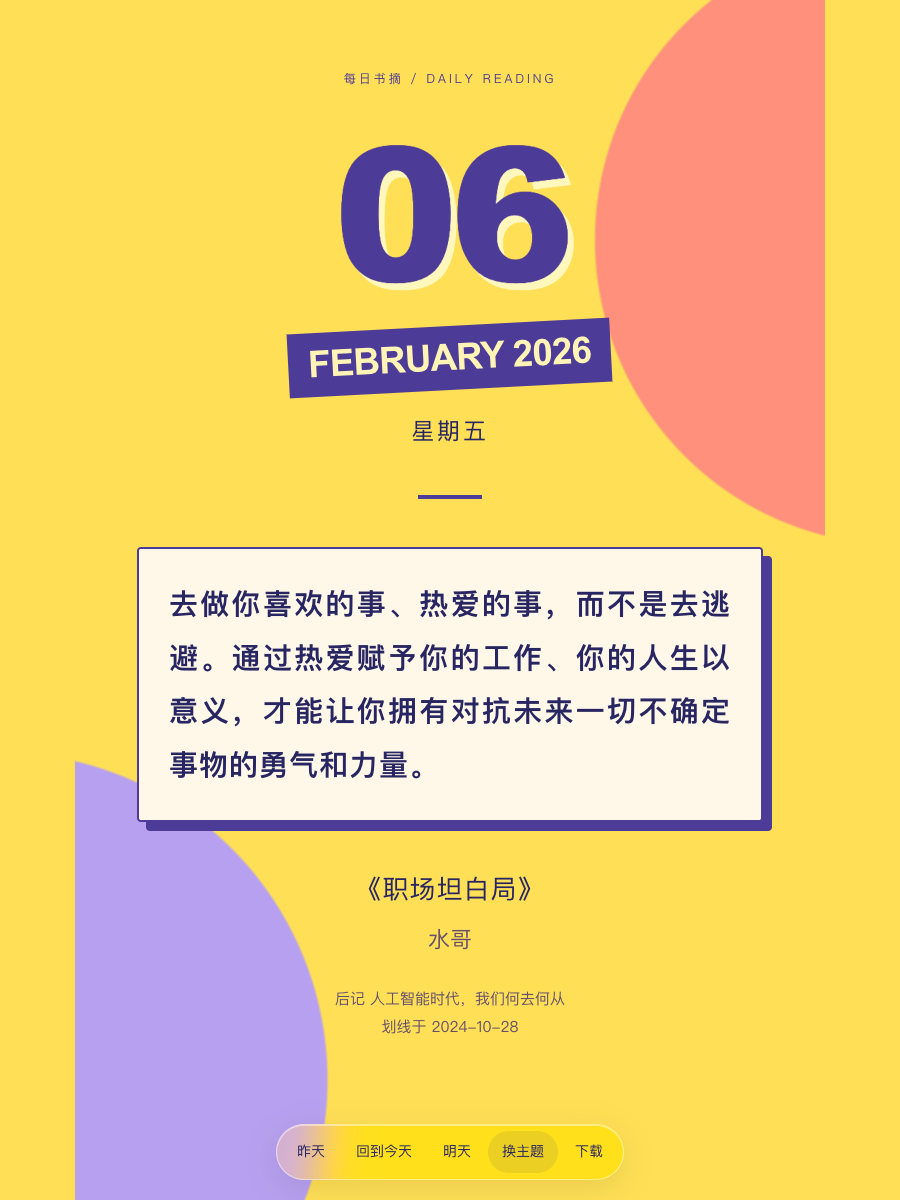
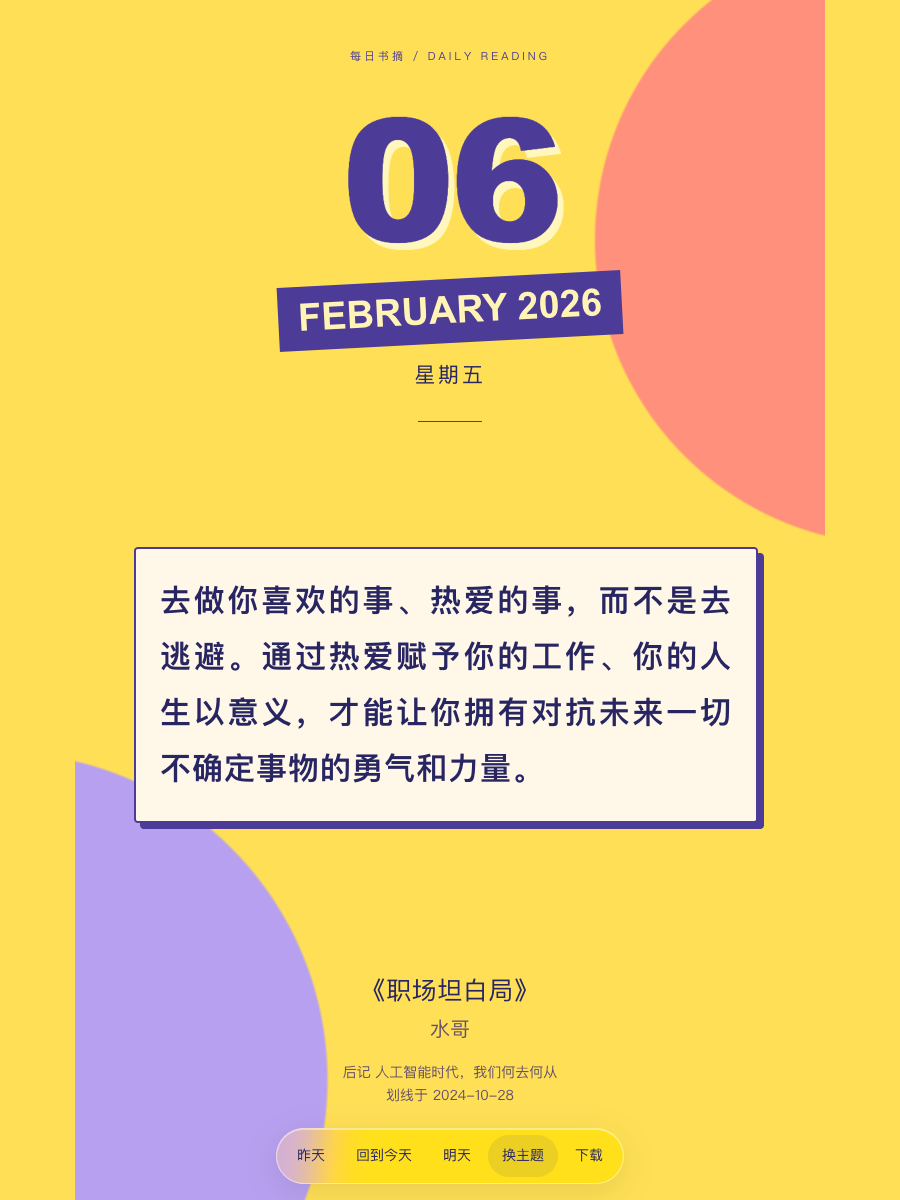
Keep calendar background screen-sized and center shorter excerpts

diff --git a/docs/daily.js b/docs/daily.js
@@ -9,13 +9,14 @@
  const back=nav.querySelector('.calendar-today');
  const status=document.createElement('div');status.setAttribute('role','status');status.style.cssText='position:fixed;bottom:calc(96px + env(safe-area-inset-bottom,0px));left:50%;transform:translateX(-50%);z-index:21;font-size:13px;padding:9px 16px;border-radius:20px;background:var(--paper);color:var(--ink);box-shadow:0 4px 18px #0001;display:none;white-space:nowrap';document.body.append(status);let statusTimer;
  function announce(text){clearTimeout(statusTimer);status.textContent=text;status.style.display='block';statusTimer=setTimeout(()=>{status.style.display='none'},3500)}
- const download=nav.querySelector('.download-card');download.onclick=async()=>{if(download.disabled)return;const savedDate=selected,savedTheme=activeTheme;nav.querySelectorAll('button').forEach(b=>b.disabled=true);download.textContent='生成中';download.setAttribute('aria-busy','true');try{await document.fonts.ready;if(!window.htmlToImage)throw Error('export unavailable');const blob=await window.htmlToImage.toBlob(card,{pixelRatio:2,skipFonts:true,backgroundColor:getComputedStyle(document.documentElement).getPropertyValue('--paper').trim()});if(!blob)throw Error('empty image');const url=URL.createObjectURL(blob);const link=document.createElement('a');link.href=url;link.download='每日书摘-'+savedDate+'-'+savedTheme+'.png';document.body.append(link);link.click();link.remove();setTimeout(()=>URL.revokeObjectURL(url),60000);announce('已开始下载图片')}catch{announce('图片生成失败，请重试')}finally{nav.querySelectorAll('button').forEach(b=>b.disabled=false);download.textContent='下载';download.removeAttribute('aria-busy');render()}};
+ const download=nav.querySelector('.download-card');download.onclick=async()=>{if(download.disabled)return;const savedDate=selected,savedTheme=activeTheme;nav.querySelectorAll('button').forEach(b=>b.disabled=true);download.textContent='生成中';download.setAttribute('aria-busy','true');try{await document.fonts.ready;if(!window.htmlToImage)throw Error('export unavailable');const exportCard=card.cloneNode(true);exportCard.classList.add('export-card');exportCard.style.width=card.offsetWidth+'px';document.body.append(exportCard);let blob;try{blob=await window.htmlToImage.toBlob(exportCard,{style:{position:'static',inset:'auto',insetInline:'auto',insetBlock:'auto',margin:'0'},pixelRatio:2,skipFonts:true,backgroundColor:getComputedStyle(document.documentElement).getPropertyValue('--paper').trim()})}finally{exportCard.remove()}if(!blob)throw Error('empty image');const url=URL.createObjectURL(blob);const link=document.createElement('a');link.href=url;link.download='每日书摘-'+savedDate+'-'+savedTheme+'.png';document.body.append(link);link.click();link.remove();setTimeout(()=>URL.revokeObjectURL(url),60000);announce('已开始下载图片')}catch{announce('图片生成失败，请重试')}finally{nav.querySelectorAll('button').forEach(b=>b.disabled=false);download.textContent='下载';download.removeAttribute('aria-busy');render()}};
 
  let calendar,pool;try{const responses=await Promise.all([fetch(assetURL('calendar-'+year+'.json')),fetch(assetURL('highlights.json'))]);if(responses.some(r=>!r.ok))throw Error('calendar');[calendar,pool]=await Promise.all(responses.map(r=>r.json()))}catch{document.querySelector('.quote').textContent='今年的书摘日历尚未初始化，请稍后再试。';return}
  const byId=new Map(pool.map(h=>[h.book_id+':'+h.id,h]));
- function put(sel,t){const el=card.querySelector(sel);if(el)el.textContent=t}
- function resize(){try{parent.postMessage({type:'reading-card-resize',date:selected,height:document.documentElement.scrollHeight},appOrigin)}catch{}}
+ function put(sel,t){const el=card.querySelector(sel);if(!el)return;if(sel==='.quote'){const text=document.createElement('span');text.className='quote-text';text.textContent=t;el.replaceChildren(text);el.scrollTop=0;}else el.textContent=t}
+ function fitQuote(target=card){const area=target.querySelector('.quote'),text=area.querySelector('.quote-text');if(!text)return;let size=target.clientWidth>600?31:23;for(;size>16;size--){text.style.setProperty('--quote-font',size+'px');if(text.offsetHeight<=area.clientHeight-20)break}text.style.setProperty('--quote-font',size+'px');area.tabIndex=area.scrollHeight>area.clientHeight+1?0:-1;}
+ function resize(){fitQuote();try{parent.postMessage({type:'reading-card-resize',date:selected,height:document.documentElement.scrollHeight},appOrigin)}catch{}}
  function render(){nav.querySelector('.prev').disabled=selected===min;nav.querySelector('.next').disabled=selected===max;back.disabled=selected===today||today<min||today>max;const date=new Date(selected+'T12:00:00Z');put('.day',selected.slice(8));put('.month',new Intl.DateTimeFormat('en-US',{timeZone:'UTC',month:'long'}).format(date).toUpperCase()+' '+year);put('.weekday',new Intl.DateTimeFormat('zh-CN',{timeZone:'UTC',weekday:'long'}).format(date));const h=byId.get(calendar.entries[selected]?.highlight_id);put('.quote',h?h.text:'这一天暂无符合时间条件的书摘。');put('.book a',h?'《'+h.book+'》':'');put('.author',h?h.author:'');const link=card.querySelector('.book a');if(link){link.removeAttribute('href');if(h?.reader_link){try{const u=new URL(h.reader_link);if(u.protocol==='https:'&&u.hostname==='weread.qq.com')link.href=u.href}catch{}}}const detail=card.querySelector('.details');detail.replaceChildren();if(h){const p=document.createElement('p');p.textContent=h.chapter;const q=document.createElement('p');q.textContent='划线于 '+(h.highlighted_date||h.highlighted_at.slice(0,10));detail.append(p,q)}document.title=selected+' · 每日书摘';document.documentElement.dataset.highlightId=h?.id||'';document.documentElement.dataset.date=selected;const url=new URL(location.href);url.searchParams.set('date',selected);url.searchParams.set('theme',activeTheme);if(!location.href.startsWith('about:'))history.replaceState(null,'',url);resize()}
  function move(amount){const d=new Date(selected+'T00:00Z');d.setUTCDate(d.getUTCDate()+amount);const next=d.toISOString().slice(0,10);if(next>=min&&next<=max){selected=next;render()}}
- nav.querySelector('.prev').onclick=()=>move(-1);nav.querySelector('.next').onclick=()=>move(1);back.onclick=()=>{if(today>=min&&today<=max){selected=today;render()}};window.addEventListener('message',e=>{if(e.source!==parent||e.data?.type!=='set-calendar-date')return;const d=e.data.date;if(/^\d{4}-\d{2}-\d{2}$/.test(d)&&d>=min&&d<=max){selected=d;render()}});render();document.fonts.ready.then(resize);
+ nav.querySelector('.prev').onclick=()=>move(-1);nav.querySelector('.next').onclick=()=>move(1);back.onclick=()=>{if(today>=min&&today<=max){selected=today;render()}};window.addEventListener('message',e=>{if(e.source!==parent||e.data?.type!=='set-calendar-date')return;const d=e.data.date;if(/^\d{4}-\d{2}-\d{2}$/.test(d)&&d>=min&&d<=max){selected=d;render()}});window.addEventListener('resize',resize);render();document.fonts.ready.then(resize);
 })();

diff --git a/docs/index.html b/docs/index.html
@@ -1,1 +1,1 @@
-<!doctype html><html lang="zh-CN"><head><meta charset="utf-8"><meta name="viewport" content="width=device-width,initial-scale=1"><title>每日书摘</title><style id="theme-style">:root{--paper:#eef2e8;--ink:#344c3c;--muted:#788b72}*{box-sizing:border-box}html,body{margin:0}body{padding:28px 20px;background:#e8e8e4;font-family:"PingFang SC","Microsoft YaHei",sans-serif;-webkit-font-smoothing:antialiased}.card{position:relative;overflow:hidden;max-width:750px;width:100%;margin:auto;padding:55px 62px 55px;text-align:center;background:var(--paper);color:var(--ink)}.label{margin:0 0 28px;font-size:12px;letter-spacing:3px;color:var(--muted)}.day{margin:0;font-family:"Arial Black",Arial,sans-serif;font-size:186px;font-weight:900;letter-spacing:-8px;line-height:1}.month{margin:25px 0 0;font-family:Arial,sans-serif;font-size:43px;font-weight:800;line-height:1.3;letter-spacing:-1px}.weekday{margin:25px 0 0;font-size:23px;letter-spacing:3px}.rule{width:90px;height:1px;border:0;background:var(--muted);margin:48px auto}.quote{margin:0;text-align:justify;font-size:31px;font-weight:600;line-height:1.95;letter-spacing:1.5px;overflow-wrap:anywhere}.source{margin-top:44px}.book{margin:0;font-size:26px;font-weight:400;line-height:1.7;letter-spacing:1px}.book a{color:inherit;text-decoration:none}.book a:hover{text-decoration:underline;text-underline-offset:5px}.author{margin:12px 0 0;color:var(--muted);font-size:22px;line-height:1.5}.details{margin-top:29px;color:var(--muted);font-size:15px;line-height:1.9}.details p{margin:0}footer{margin-top:40px;font-size:16px;letter-spacing:2px;color:var(--muted)}@media(max-width:600px){body{padding:0}.card{padding:42px 28px}.day{font-size:145px}.month{font-size:30px!important;letter-spacing:0!important}.weekday{font-size:18px}.rule{margin:35px auto}.quote{font-size:23px!important;line-height:1.95!important;letter-spacing:1px!important}.book{font-size:22px}.author{font-size:19px}.details{font-size:13px}.label{margin-bottom:25px}}.card{background:radial-gradient(ellipse at 100% 0,#d8e3cd 0,transparent 46%),#eef2e8}.day{color:#66815b}.quote{font-family:"Songti SC","STSong",serif;font-weight:500}.rule{background:#879c7b}.source{border-top:1px solid #bac8ae;padding-top:30px}.label{color:#66815b}</style><meta name="description" content="精选 100 条真实阅读划线，五种主题，每天重遇一句读过的话。"></head><body><main class="card"><p class="label">每日书摘 / DAILY READING</p><header><p class="day">—</p><p class="month">DAILY READING</p><p class="weekday"></p></header><hr class="rule"><blockquote class="quote">正在载入你的书摘…</blockquote><section class="source"><h1 class="book"><a target="_blank" rel="noopener noreferrer">个人书摘</a></h1><p class="author"></p><div class="details"></div></section></main><p class="public-note" style="max-width:750px;margin:0 auto;padding:12px 20px;text-align:center;font-size:12px;line-height:1.8;color:var(--muted)">公开体验 · 精选 100 条真实书摘，全年轮换重读 · 五种主题可切换</p><script src="./vendor/html-to-image-1.11.13.js"></script><script src="./themes.js"></script><script src="./daily.js"></script></body></html>
+<!doctype html><html lang="zh-CN"><head><meta charset="utf-8"><meta name="viewport" content="width=device-width,initial-scale=1"><title>每日书摘</title><style id="theme-style">:root{--paper:#eef2e8;--ink:#344c3c;--muted:#788b72}*{box-sizing:border-box}html,body{margin:0}body{padding:28px 20px;background:#e8e8e4;font-family:"PingFang SC","Microsoft YaHei",sans-serif;-webkit-font-smoothing:antialiased}.card{position:relative;overflow:hidden;max-width:750px;width:100%;margin:auto;padding:55px 62px 55px;text-align:center;background:var(--paper);color:var(--ink)}.label{margin:0 0 28px;font-size:12px;letter-spacing:3px;color:var(--muted)}.day{margin:0;font-family:"Arial Black",Arial,sans-serif;font-size:186px;font-weight:900;letter-spacing:-8px;line-height:1}.month{margin:25px 0 0;font-family:Arial,sans-serif;font-size:43px;font-weight:800;line-height:1.3;letter-spacing:-1px}.weekday{margin:25px 0 0;font-size:23px;letter-spacing:3px}.rule{width:90px;height:1px;border:0;background:var(--muted);margin:48px auto}.quote{margin:0;text-align:justify;font-size:31px;font-weight:600;line-height:1.95;letter-spacing:1.5px;overflow-wrap:anywhere}.source{margin-top:44px}.book{margin:0;font-size:26px;font-weight:400;line-height:1.7;letter-spacing:1px}.book a{color:inherit;text-decoration:none}.book a:hover{text-decoration:underline;text-underline-offset:5px}.author{margin:12px 0 0;color:var(--muted);font-size:22px;line-height:1.5}.details{margin-top:29px;color:var(--muted);font-size:15px;line-height:1.9}.details p{margin:0}footer{margin-top:40px;font-size:16px;letter-spacing:2px;color:var(--muted)}@media(max-width:600px){body{padding:0}.card{padding:42px 28px}.day{font-size:145px}.month{font-size:30px!important;letter-spacing:0!important}.weekday{font-size:18px}.rule{margin:35px auto}.quote{font-size:23px!important;line-height:1.95!important;letter-spacing:1px!important}.book{font-size:22px}.author{font-size:19px}.details{font-size:13px}.label{margin-bottom:25px}}.card{background:radial-gradient(ellipse at 100% 0,#d8e3cd 0,transparent 46%),#eef2e8}.day{color:#66815b}.quote{font-family:"Songti SC","STSong",serif;font-weight:500}.rule{background:#879c7b}.source{border-top:1px solid #bac8ae;padding-top:30px}.label{color:#66815b}</style><meta name="description" content="精选 100 条真实阅读划线，五种主题，每天重遇一句读过的话。"><link rel="stylesheet" href="./layout.css"></head><body><main class="card"><p class="label">每日书摘 / DAILY READING</p><header><p class="day">—</p><p class="month">DAILY READING</p><p class="weekday"></p></header><hr class="rule"><blockquote class="quote">正在载入你的书摘…</blockquote><section class="source"><h1 class="book"><a target="_blank" rel="noopener noreferrer">个人书摘</a></h1><p class="author"></p><div class="details"></div></section></main><p class="public-note" style="max-width:750px;margin:0 auto;padding:12px 20px;text-align:center;font-size:12px;line-height:1.8;color:var(--muted)">公开体验 · 精选 100 条真实书摘，全年轮换重读 · 五种主题可切换</p><script src="./vendor/html-to-image-1.11.13.js"></script><script src="./themes.js"></script><script src="./daily.js"></script></body></html>

diff --git a/docs/layout.css b/docs/layout.css
@@ -1,0 +1,24 @@
+/* A stable screen-sized page: only the reading area can scroll on very small screens. */
+html,html body{height:100%;overflow:hidden}
+html body{padding:0;background:var(--paper)}
+html body .card{--card-height:100vh;--card-height:100svh;display:flex;flex-direction:column;height:var(--card-height);min-height:0;max-height:var(--card-height);padding:clamp(18px,4vh,48px) clamp(24px,6vw,62px) calc(94px + env(safe-area-inset-bottom,0px));overflow:hidden}
+html body .card>.label{flex:none;margin:0 0 clamp(10px,2vh,24px);font-size:11px;line-height:1.5}
+html body .card>header{flex:none}
+html body .card .day{font-size:clamp(70px,15vh,170px);line-height:1;letter-spacing:-5px}
+html body .card .month{font-size:clamp(20px,3.5vh,38px)!important;line-height:1.25;margin:clamp(8px,1.7vh,20px) 0 0;letter-spacing:0!important}
+html body .card .weekday{font-size:clamp(14px,2vh,21px);line-height:1.4;margin:clamp(8px,1.6vh,18px) 0 0}
+html body .card>.rule{flex:none;margin:clamp(14px,2.8vh,32px) auto;height:1px}
+html body .card>.quote{display:flex;flex-direction:column;flex:1 1 0;min-height:0;margin:0;padding:8px 5px 12px;overflow:auto;overscroll-behavior:contain;border:0;box-shadow:none;border-radius:0;background:transparent;scrollbar-width:thin}
+html body .card .quote-text{flex:none;display:block;width:100%;margin:auto 0;text-align:justify;overflow-wrap:anywhere;font-size:var(--quote-font,23px)!important;line-height:1.8!important;letter-spacing:1px;white-space:pre-line}
+html[data-theme=pop] body .card .quote-text{width:calc(100% - 8px);padding:clamp(12px,2vh,24px);background:#fff8e9;border:2px solid #4c3b97;border-radius:4px;box-shadow:6px 6px 0 #4c3b97}
+html body .card>.source{flex:none;margin-top:clamp(14px,2.4vh,28px);padding-top:clamp(12px,2vh,24px);max-height:30vh;overflow:auto;scrollbar-width:thin}
+html body .card .book{font-size:clamp(17px,2.6vh,25px);line-height:1.5;letter-spacing:.5px}
+html body .card .author{font-size:clamp(13px,1.9vh,20px);line-height:1.4;margin:6px 0 0}
+html body .card .author:empty{display:none}
+html body .card .details{font-size:clamp(11px,1.5vh,14px);line-height:1.6;margin-top:clamp(8px,1.5vh,18px)}
+html body .calendar-nav{bottom:calc(16px + env(safe-area-inset-bottom,0px))}
+html body .public-note{position:absolute!important;width:1px!important;height:1px!important;padding:0!important;overflow:hidden;clip-path:inset(50%);white-space:nowrap}
+html body .export-card{position:fixed;left:-10000px;top:0;height:auto;max-height:none;min-height:100svh;pointer-events:none}
+html body .export-card>.quote{flex:none;overflow:visible;min-height:240px}
+html body .export-card>.source{max-height:none;overflow:visible}
+@media(max-height:650px){html body .card{padding-top:14px;padding-bottom:78px}html body .card>.label{font-size:10px;margin-bottom:8px}html body .card .day{font-size:68px}html body .card .month{font-size:20px!important;margin-top:6px}html body .card .weekday{font-size:13px;margin-top:6px}html body .card>.rule{margin:12px auto}html body .card>.source{margin-top:10px;padding-top:8px}html body .card .details{margin-top:6px}html body .calendar-nav{bottom:10px}}

diff --git a/README.md b/README.md
@@ -16,6 +16,7 @@
 
 ## 可以体验什么
 
+- 页面背景固定贴合屏幕，短句居中留白；长句自适应字号，极小屏幕只滚动正文区域。
 - 2026 年全年 365 天日历，昨天 / 回到今天 / 明天翻页。
 - 五种主题，切换时保留当前日期与书摘。
 - 将当前卡片下载为 PNG，图片不包含悬浮按钮。
